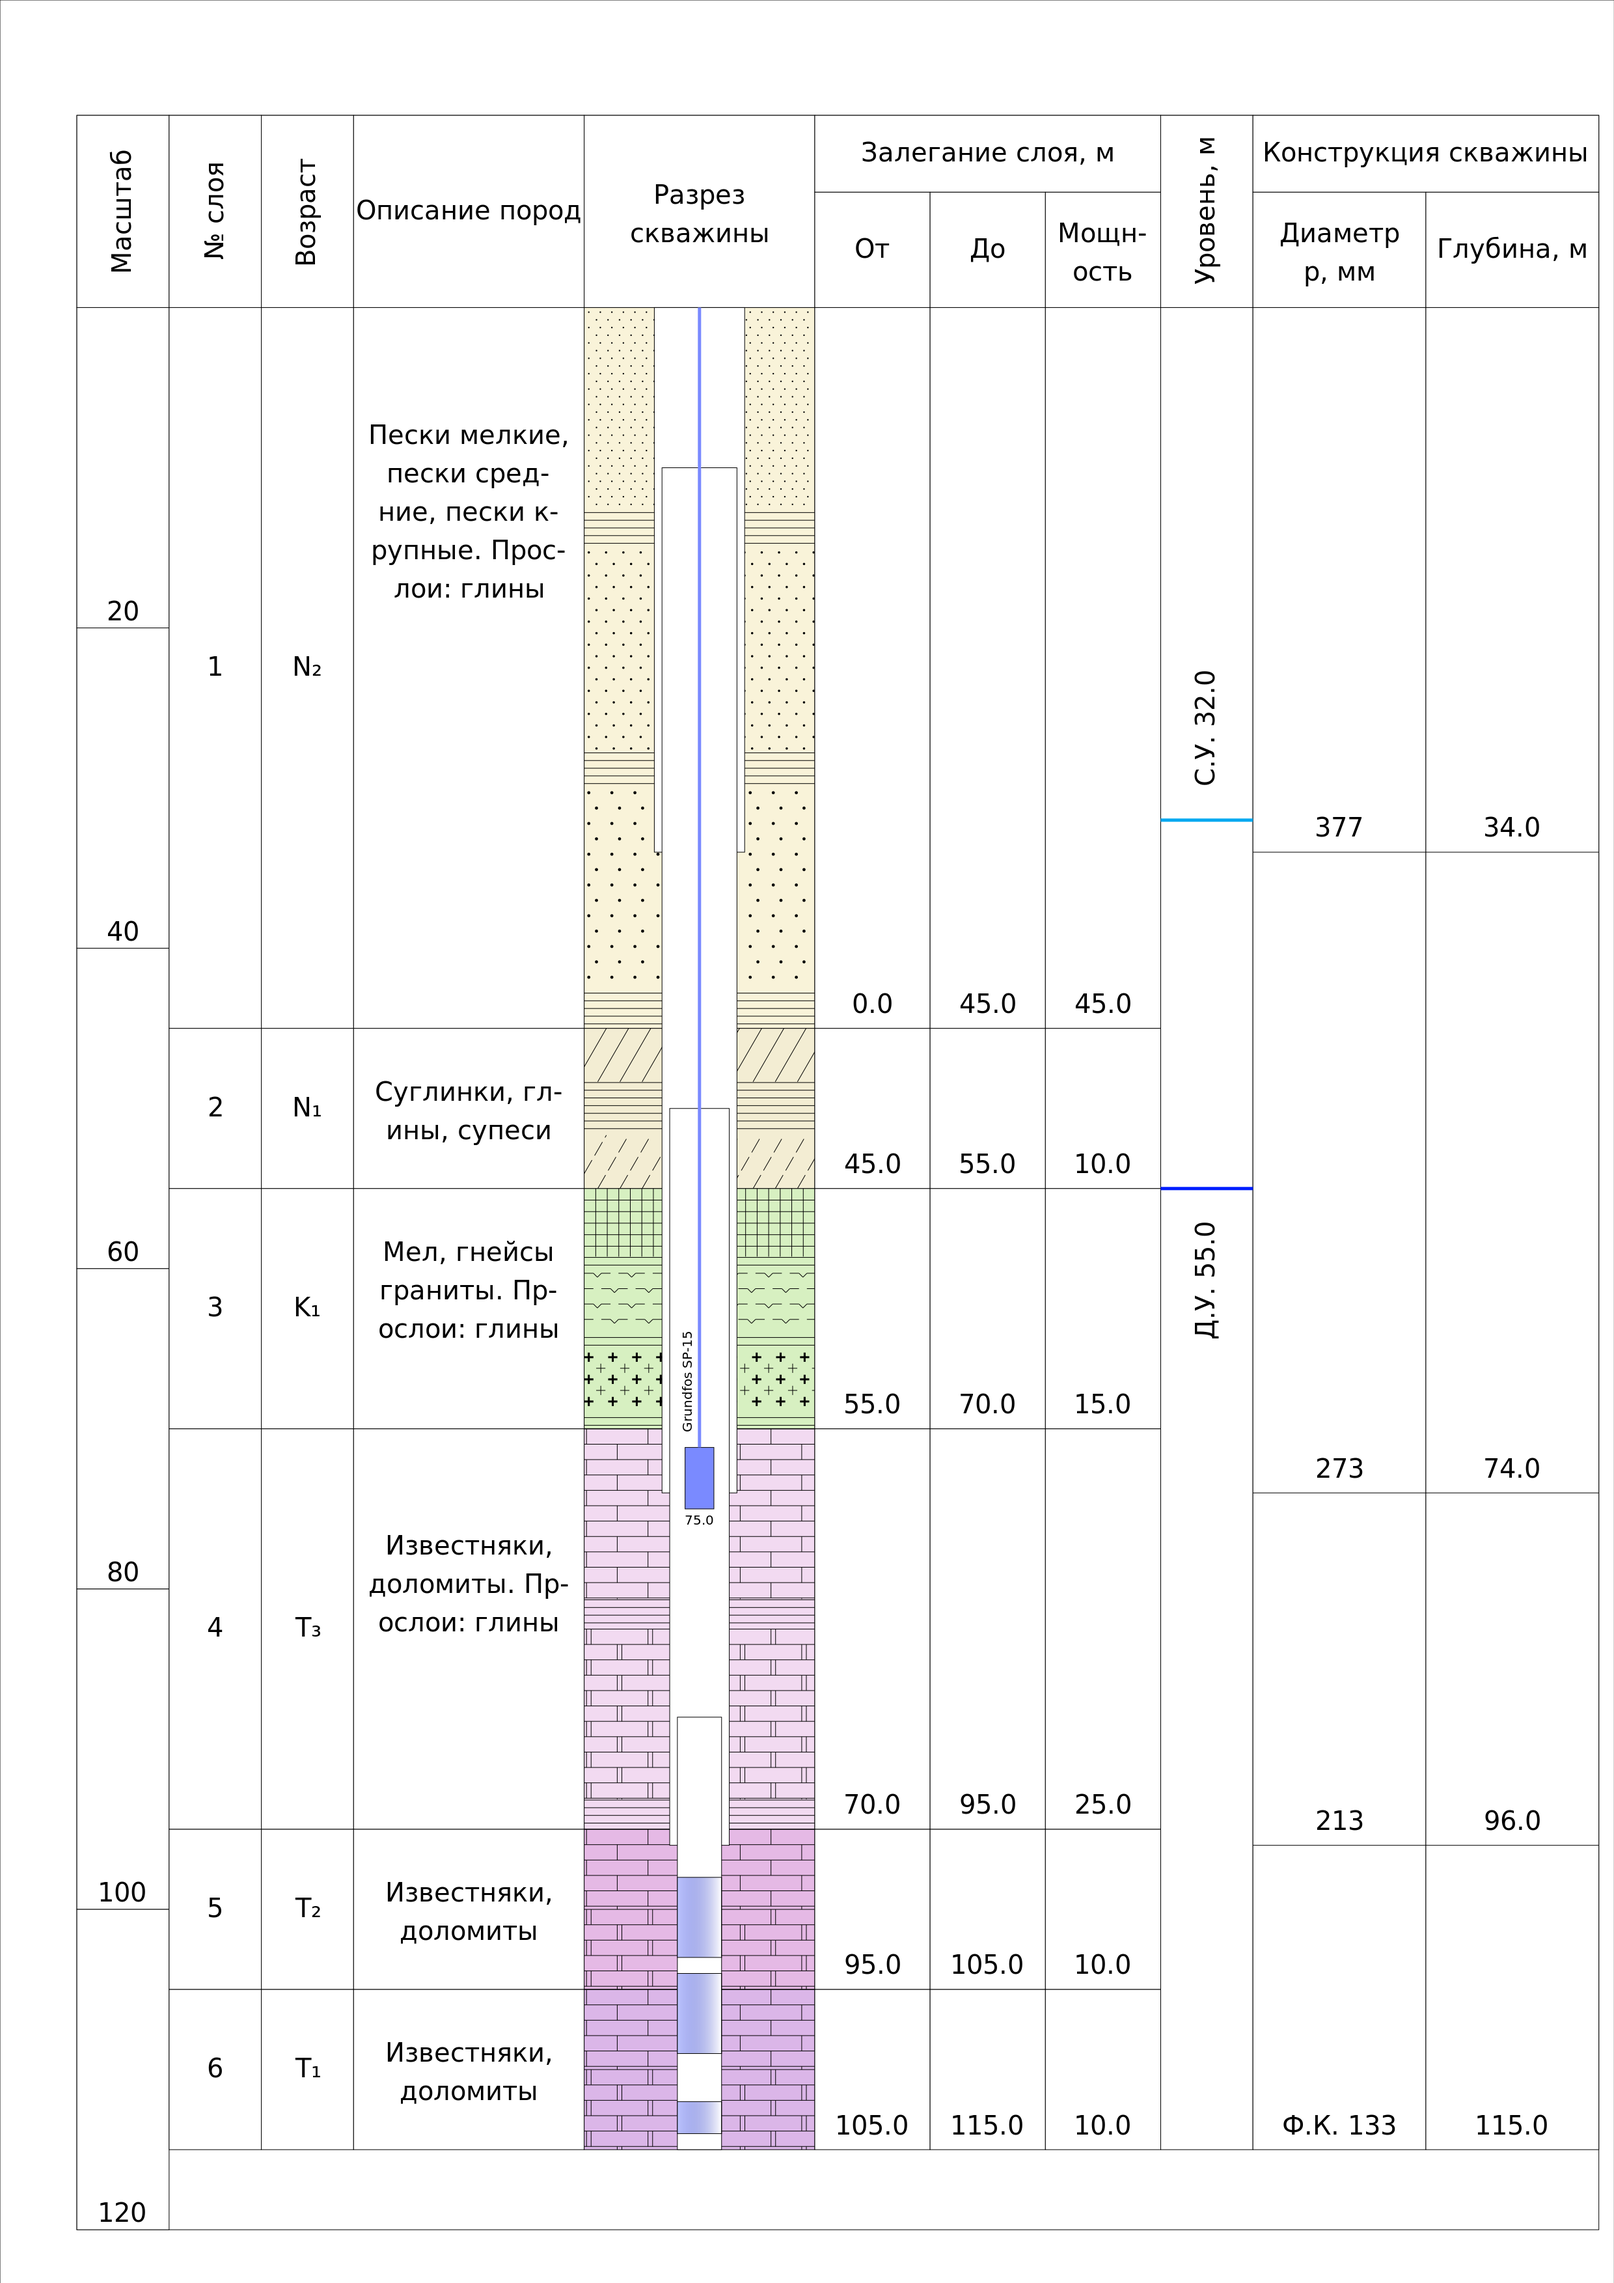
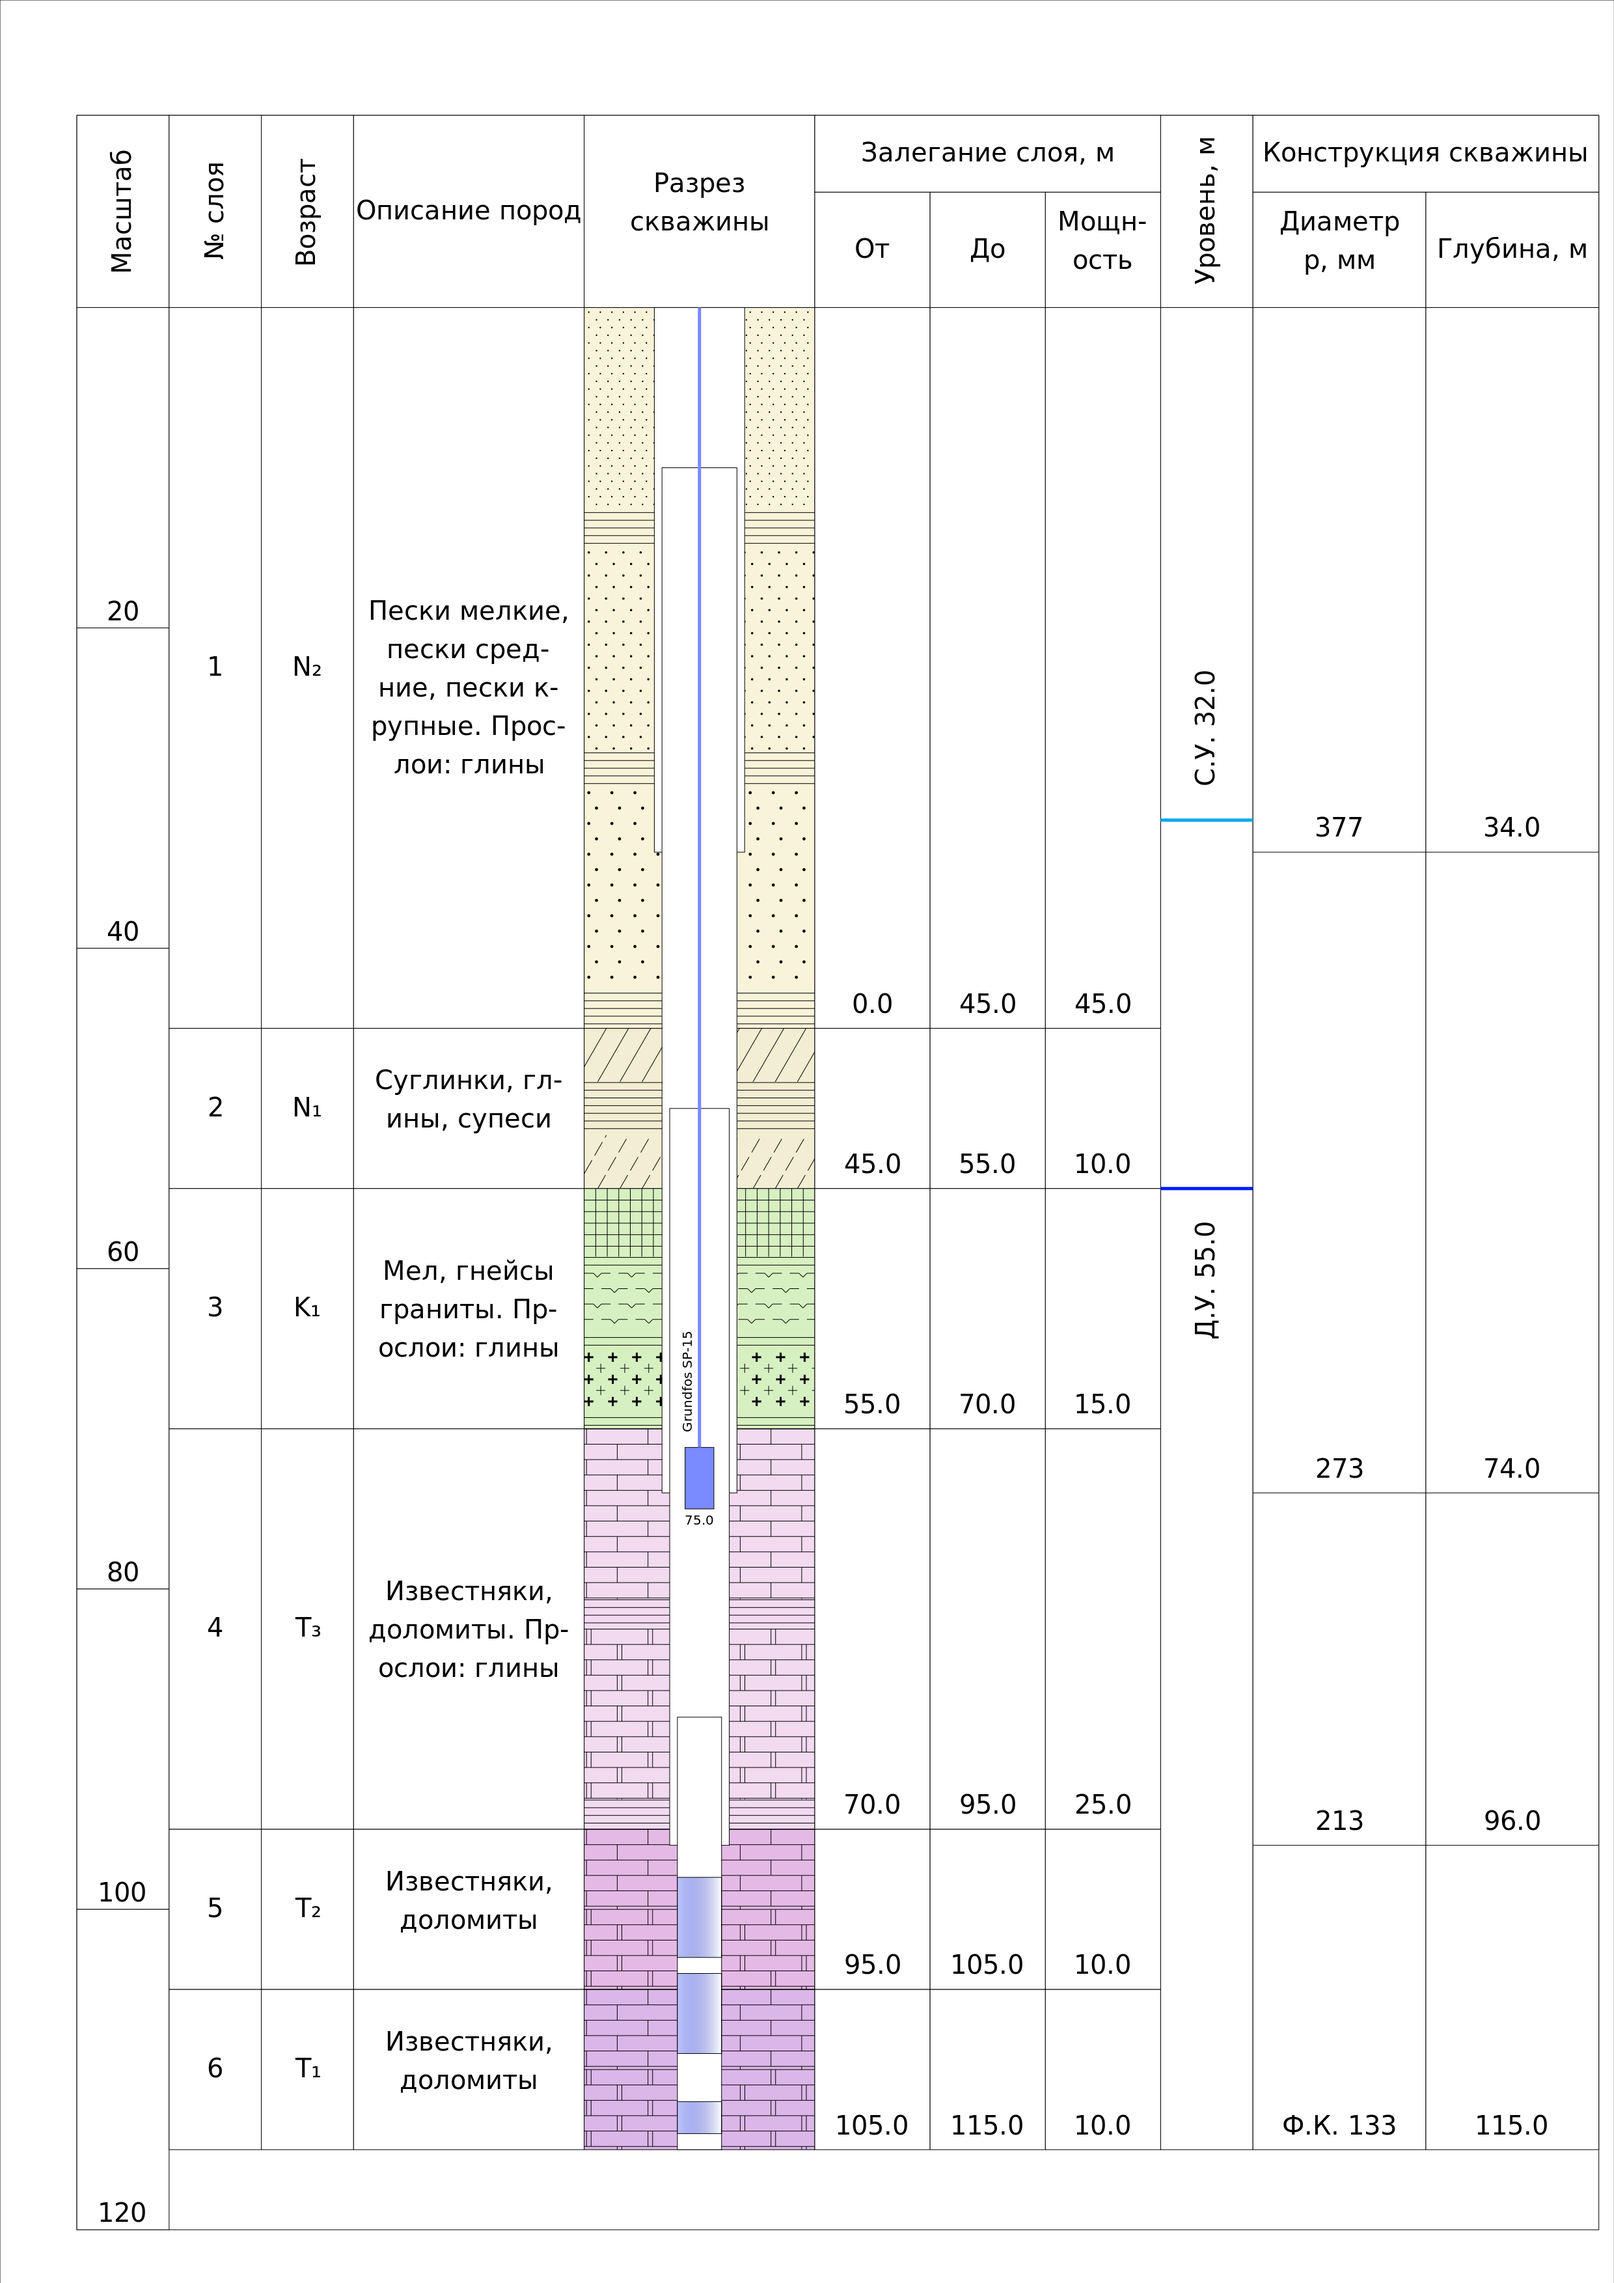
fix text position

diff --git a/drawing/main.py b/drawing/main.py
@@ -163,7 +163,9 @@ def rectangle(d, x, y, x1, y1, text, direction):
         number_str = math.ceil(abs((len(text) * 2.1) / x1))
         i = 0
         # Первоначальное положение строки
-        step = y1 / number_str
+        # строится в зависимости от расстояния межу строками
+        # и высотой шрифта
+        step = y1 / 2 + (5-2.5)/2 * number_str
         text_start_step = 0
         text_step = round(len(text) / abs(number_str))
         text_end_step = text_step
@@ -173,9 +175,9 @@ def rectangle(d, x, y, x1, y1, text, direction):
         while i < number_str - 1:
             p = draw.Lines(
                 (x) * koef,
-                (y + step + 1) * koef,
+                (y + step) * koef,
                 (x + x1) * koef,
-                (y + step + 1) * koef,
+                (y + step) * koef,
                 close=False,
                 stroke="white",
             )
@@ -205,9 +207,9 @@ def rectangle(d, x, y, x1, y1, text, direction):
         # добавление остатка строки
         p = draw.Lines(
             (x) * koef,
-            (y + step + 1) * koef,
+            (y + step) * koef,
             (x + x1) * koef,
-            (y + step + 1) * koef,
+            (y + step) * koef,
             close=False,
             stroke="white",
         )
